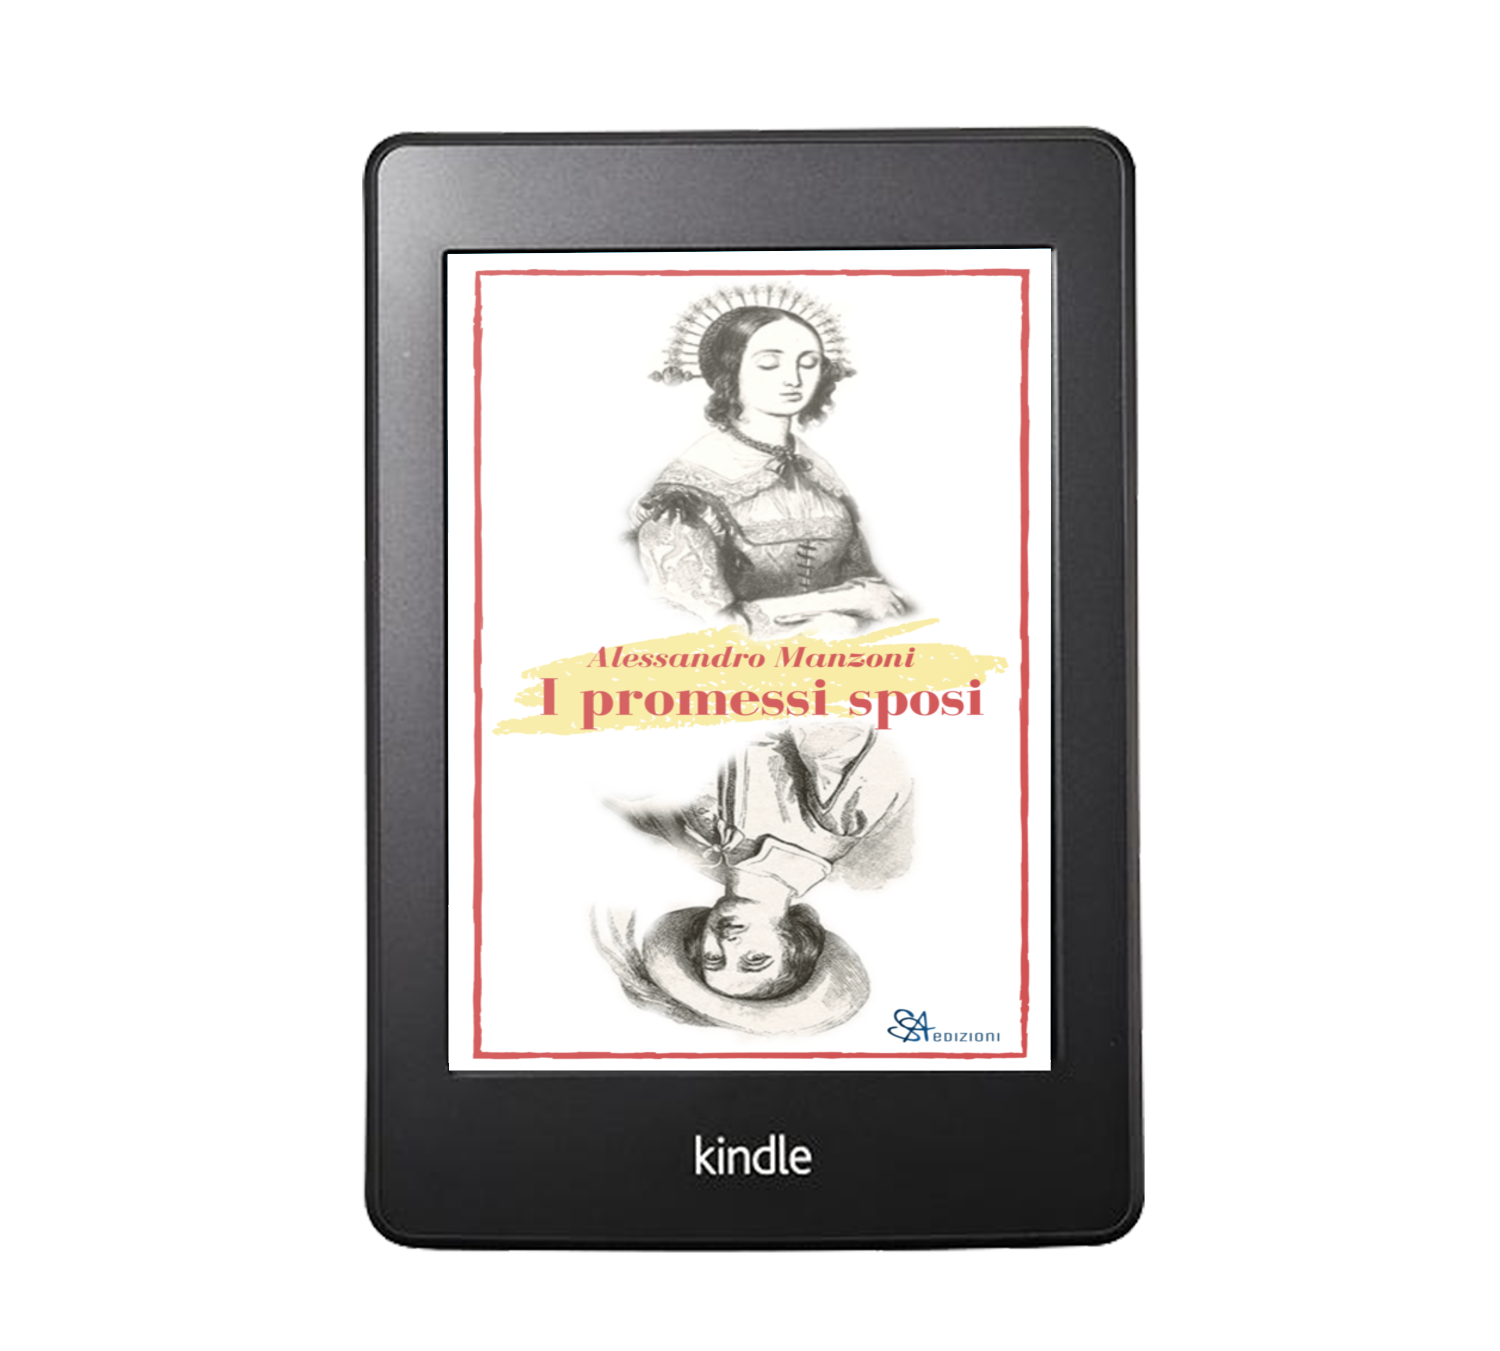
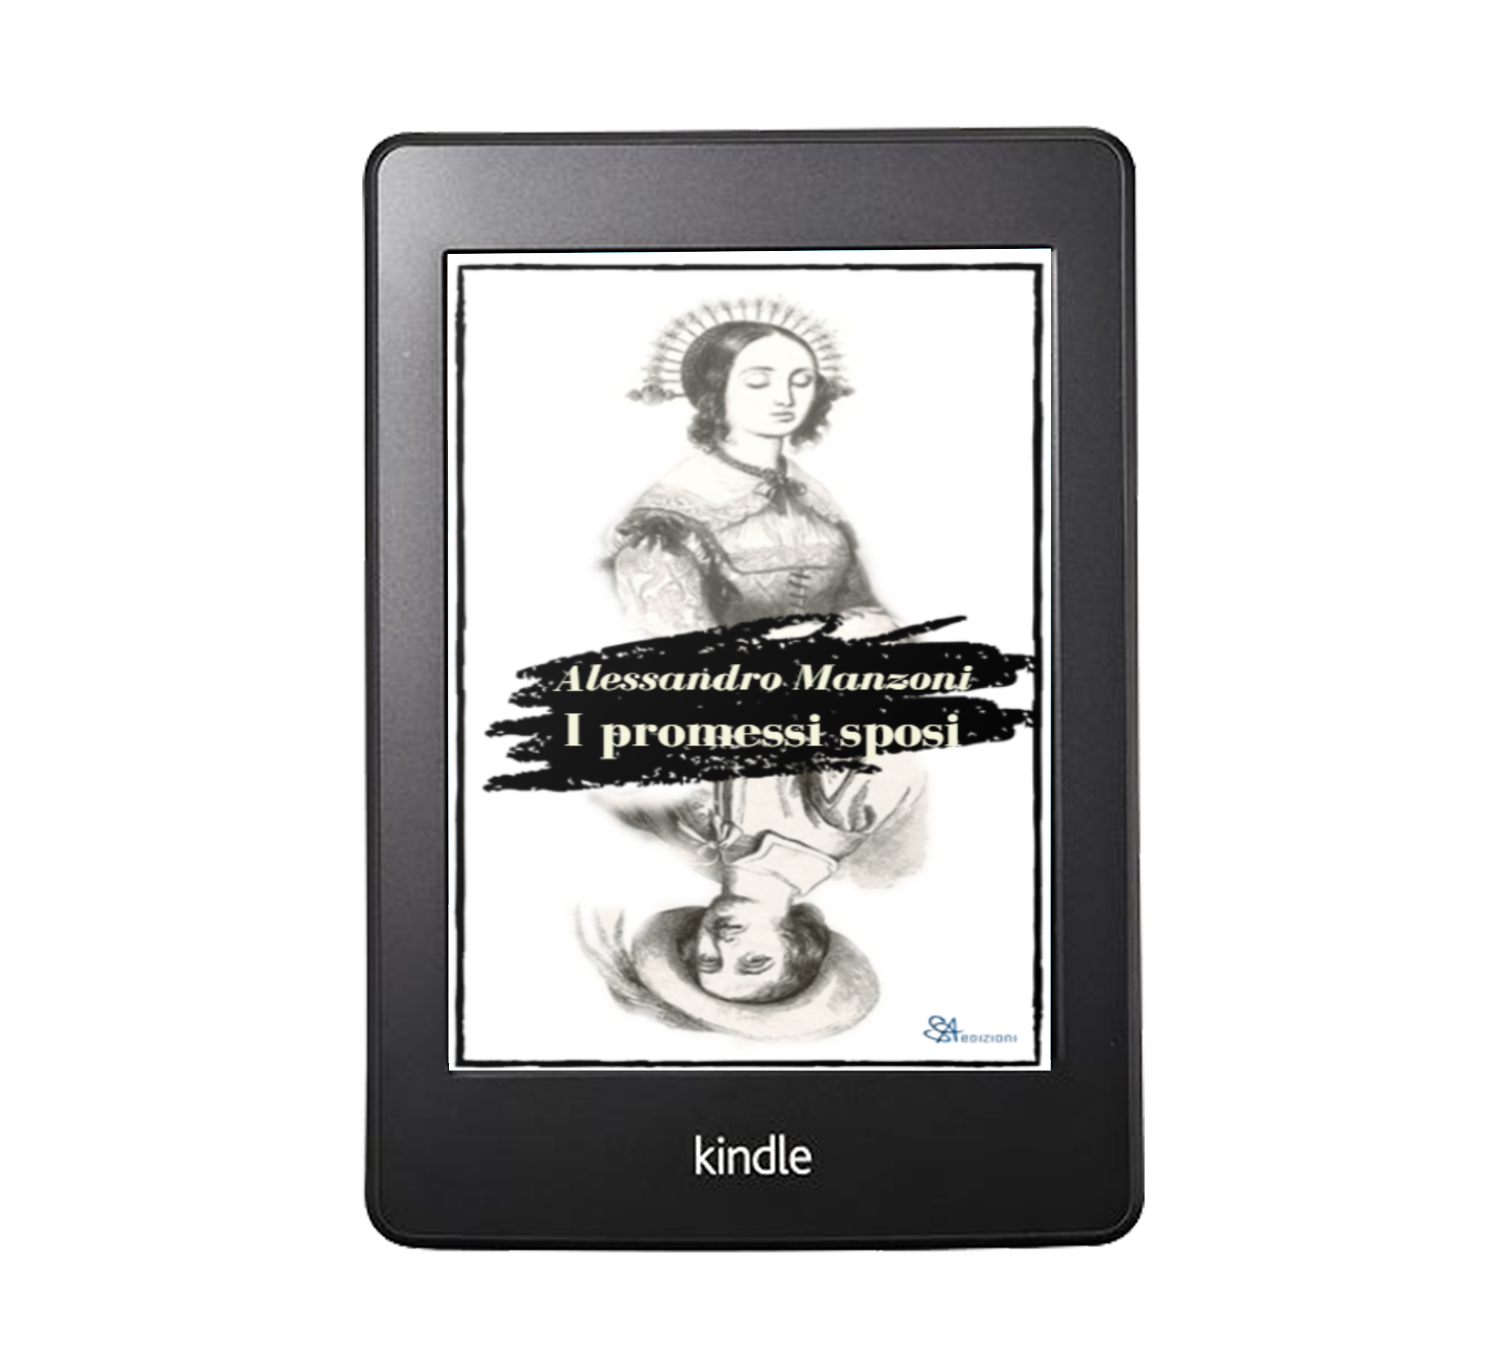
cv

Changed region(s): [[0.276, 0.1865, 0.7053, 0.8083]]

diff --git a/index.html b/index.html
@@ -35,7 +35,7 @@
 	  </div>
 		<div class="modal-body">
 			<p>Given the importance of covers as a vehicle through which to self-advertise the content itself and the chance to read books on different devices, in addition to the classic book. I thought it would be interesting to create a css library that would allow to adapt the cover to multiple formats in an easy and fast way. In particular the library is composed of an html file that contains all the information that must be present on a cover and four css style sheets, one for each format: tablet, smartphone, traditional cover and Ereader. So it is possible to link the desired one to the reference html file. </p>
-			<p>In order to show how the library works, I decided to recreate the cover of the text of Alessandro Manzoni's: I promessi sposi (The Betrothed) trying to make it more modern and attractive while keeping it simple both to be different from the covers currently on the market and to attract the attention of a young audience that has to study it at school and for lovers of Italian literature.</p>
+			<p>In order to show how the library works, I decided to recreate the cover of the text of Alessandro Manzoni: I promessi sposi (The Betrothed) trying to make it more modern and attractive while keeping it simple both to be different from the covers currently on the market and to attract the attention of a young audience that has to study it at school and for lovers of Italian literature.</p>
 
 			<p>Disclaimer: All copyrights and related rights on the content remain with their original owners. All copyright on the css library choices are 2020@SARA ARMAROLI</p>
 		

diff --git a/stylesheet-kindle non usato (canva).css b/stylesheet-kindle non usato (canva).css
@@ -10,46 +10,42 @@
 
 
 .book-cover{text-align: center;
-            
             margin-top:5%;
             width: 750px;
-	    position: absolute;
-	    margin-left: 20%;
+            position: absolute;
+            margin-left: 20%;
 	    margin-right: auto;
 	    padding: 0px;
 	/*useful properties to maintain fixed dimensions */
         }
 
 .author{font-family: BodoniFLF-BoldItalic;
-        font-size: 25px;
-       
+        font-size: 35px;
         text-align: center;      
         }
 
 .title{font-family: BodoniFLF-Bold;
-        font-size: 35px;
+        font-size: 45px;
         margin-top: -30px;  
         text-align: center;    
         }
 
 .text-cover{position: absolute; 
         white-space: nowrap;
-        margin-top: 199px; 
-        margin-left: 36%;
+        margin-top: 358px; 
+        margin-left: 30%;
         color:beige;
         }
 
 .logo{position: absolute;
-        margin-top:55%;   
-        margin-left:-10%; 
-        width:50px;
+        margin-top:94%;   
+        margin-left:-16%; 
+        width:80px;
         }
 
 .cover-img{ text-align:center;
-        width:9cm; 
-        height: 12.5cm;
+        width:512px; 
+        height: 800px;
 }
 
 
-
- 

diff --git a/stylesheet-kindle.css b/stylesheet-kindle.css
@@ -10,42 +10,46 @@
 
 
 .book-cover{text-align: center;
+            
             margin-top:5%;
             width: 750px;
-            position: absolute;
-            margin-left: 20%;
+	    position: absolute;
+	    margin-left: 20%;
 	    margin-right: auto;
 	    padding: 0px;
 	/*useful properties to maintain fixed dimensions */
         }
 
 .author{font-family: BodoniFLF-BoldItalic;
-        font-size: 35px;
+        font-size: 25px;
+       
         text-align: center;      
         }
 
 .title{font-family: BodoniFLF-Bold;
-        font-size: 45px;
+        font-size: 35px;
         margin-top: -30px;  
         text-align: center;    
         }
 
 .text-cover{position: absolute; 
         white-space: nowrap;
-        margin-top: 358px; 
-        margin-left: 30%;
+        margin-top: 199px; 
+        margin-left: 36%;
         color:beige;
         }
 
 .logo{position: absolute;
-        margin-top:94%;   
-        margin-left:-16%; 
-        width:80px;
+        margin-top:55%;   
+        margin-left:-10%; 
+        width:50px;
         }
 
 .cover-img{ text-align:center;
-        width:512px; 
-        height: 800px;
+        width:9cm; 
+        height: 12.5cm;
 }
 
 
+
+ 
